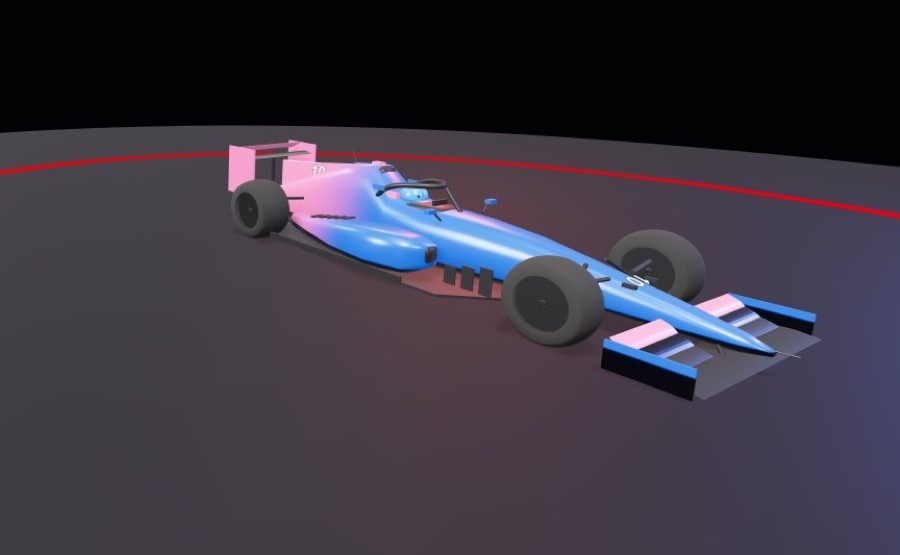
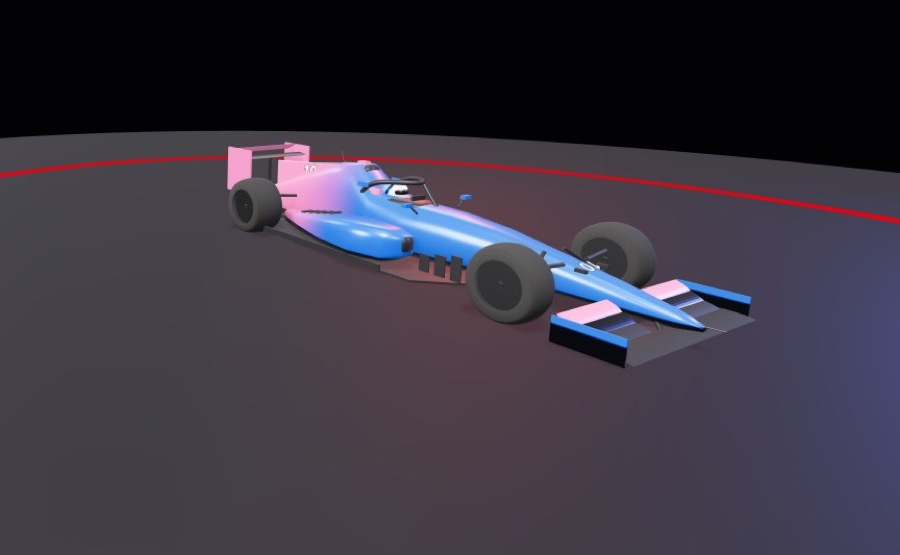
Helmet portraits on the driver cards; team shots with the new helmets
capture-shots gains a 'helmets' part: a portrait of each driver's helmet
on the grid, framed by the photo camera (assets/shots/helmets/). The
driver cards give the 2025 standing its own line over a wins/podiums/poles
row; team cards the same. Team showroom shots recaptured so the drivers
wear their painted helmets.

Changed region(s): [[0.0, 0.2144, 1.0, 0.7351]]

diff --git a/tools/capture-shots.js b/tools/capture-shots.js
@@ -3,7 +3,7 @@
 // filename: tools/capture-shots.js, dev server on http://localhost:8765.
 // Then resize with sips (see README). Writes to assets/shots/.
 // To retake only some parts, set globalThis.CAPTURE_PARTS first, for example
-// ["items"]; the default takes circuits, teams and items.
+// ["items"]; the default takes circuits, teams, items and helmets.
 async (page) => {
   // Keep the test tool's own empty tab (about:blank) out of the way.
   try {
@@ -11,7 +11,7 @@ async (page) => {
     const { windowId: ownWindow } = await own.send("Browser.getWindowForTarget");
     await own.send("Browser.setWindowBounds", { windowId: ownWindow, bounds: { windowState: "minimized" } });
   } catch (e) { /* not fatal */ }
-  const parts = globalThis.CAPTURE_PARTS || ["circuits", "teams", "items"];
+  const parts = globalThis.CAPTURE_PARTS || ["circuits", "teams", "items", "helmets"];
   // Relative to the Playwright server, which runs from the repo root.
   const OUT = "assets/shots/";
   const context = await page.context().browser().newContext({ viewport: null });
@@ -159,6 +159,41 @@ async (page) => {
       await p.waitForTimeout(600);
       await shot(`items/${s.id}`);
       written.push(`items/${s.id}`);
+    } finally {
+      await p.evaluate(() => {
+        Render3D.setPhotoCamera(null);
+        state.paused = false;
+        document.getElementById("game").style.visibility = "";
+        document.getElementById("screens").style.visibility = "";
+      });
+    }
+  }
+
+  // One helmet portrait per driver, for the site's driver cards: each car on
+  // the grid, paused, with a photo camera low at the front three-quarter (the
+  // visor, the design and the cockpit's edge). The halo stays: it's the car.
+  for (const id of parts.includes("helmets") ? await p.evaluate(() => DRIVERS.map((d) => d.id)) : []) {
+    await p.evaluate(async (id) => {
+      Game.backToPitLane();
+      Game.selectGridMode("back");
+      Game.selectDriver(DRIVERS.findIndex((d) => d.id === id));
+      Game.startCup();
+      for (let i = 0; i < 300 && state.preparing; i += 1) await new Promise((r) => requestAnimationFrame(r));
+      state.paused = true;
+      state.pausedAt = performance.now();
+      const pl = getPlayer();
+      const c = Math.cos(pl.heading ?? pl.angle);
+      const s = Math.sin(pl.heading ?? pl.angle);
+      const spot = ([fwd, side, h]) => ({ x: pl.x + c * fwd - s * side, y: pl.y + s * fwd + c * side, d: pl.trackDistance, h });
+      Render3D.setPhotoCamera({ from: spot([7.5, -5.5, 6.2]), at: spot([-0.6, 0, 4.6]), fov: 30 });
+    }, id);
+    try {
+      await hideOverlays();
+      await p.waitForTimeout(500);
+      const view = await p.evaluate(() => ({ w: innerWidth, h: innerHeight }));
+      const side = Math.round(Math.min(view.w, view.h) * 0.42);
+      await shot(`helmets/${id}`, { x: Math.round(view.w / 2 - side / 2), y: Math.round(view.h / 2 - side / 2), width: side, height: side });
+      written.push(`helmets/${id}`);
     } finally {
       await p.evaluate(() => {
         Render3D.setPhotoCamera(null);

diff --git a/landing.css b/landing.css
@@ -128,22 +128,23 @@ body.landing { overflow-x: hidden; }
 /* ---- The grid pages (drivers.html, teams.html) ---- */
 .grid-page main { padding-bottom: 24px; }
 .driver-cards, .team-cards { display: grid; grid-template-columns: repeat(auto-fill, minmax(min(100%, 300px), 1fr)); gap: 16px; }
-.driver-card { display: grid; grid-template-columns: 112px 1fr; background: var(--panel); border-top: 4px solid var(--team); overflow: hidden; }
-.driver-helmet { background: radial-gradient(circle at 50% 40%, color-mix(in srgb, var(--team) 45%, #0b0b10), #07070c 75%); display: grid; place-items: center; }
+.driver-card { display: grid; grid-template-columns: 124px 1fr; align-items: start; background: var(--panel); border-top: 4px solid var(--team); overflow: hidden; }
+.driver-helmet { aspect-ratio: 1; background: radial-gradient(circle at 50% 40%, color-mix(in srgb, var(--team) 45%, #0b0b10), #07070c 75%); }
 .driver-helmet img { width: 100%; height: 100%; object-fit: cover; display: block; }
 .driver-body { padding: 12px 14px 14px; min-width: 0; }
 .driver-body h3 { margin: 2px 0 0; font: italic 900 1.1rem/1.1 var(--font); text-transform: uppercase; }
 .driver-line { font-size: 0.82rem; margin: 3px 0 10px; }
-.record { display: grid; grid-template-columns: repeat(4, auto); gap: 6px 12px; margin: 0 0 8px; justify-content: start; }
+.standing { margin: 0 0 6px; font-weight: 700; }
+.standing span { font-size: 0.68rem; letter-spacing: 0.12em; color: var(--muted); margin-right: 4px; }
+.record { display: grid; grid-template-columns: repeat(3, minmax(0, 1fr)); gap: 6px 10px; margin: 0 0 8px; }
 .record div { min-width: 0; }
-.record dt { font-size: 0.68rem; letter-spacing: 0.12em; text-transform: uppercase; color: var(--muted); }
-.record dd { margin: 0; font-weight: 700; white-space: nowrap; }
+.record dt { font-size: 0.66rem; letter-spacing: 0.1em; text-transform: uppercase; color: var(--muted); }
+.record dd { margin: 0; font-weight: 700; }
 .career-line { font-size: 0.82rem; margin: 0; color: var(--muted); }
 .moved { font-size: 0.8rem; margin: 6px 0 0; }
 .champion { color: #ffd400; }
 .team-cards .team-body .kicker { margin: 0 0 2px; }
 .team-cards .team-body h3 { font-size: 1rem; }
 @media (max-width: 520px) {
-  .driver-card { grid-template-columns: 88px 1fr; }
-  .record { grid-template-columns: repeat(2, auto); }
+  .driver-card { grid-template-columns: 96px 1fr; }
 }

diff --git a/grid-pages.js b/grid-pages.js
@@ -53,8 +53,8 @@
             <p class="kicker">#${num(r.number)} · ${esc(team ? team.short : "")}${s.champion ? ` · <span class="champion">2025 World Champion</span>` : ""}</p>
             <h3>${esc(r.name)}</h3>
             <p class="muted driver-line">${esc(game ? game.title : "")} · ${esc(r.nationality)} · ${ageAt(r.dateOfBirth, data.season.firstRace)} at the season opener</p>
+            <p class="standing"><span>2025</span> ${esc(ordinal(s.position))} · ${num(s.points)} pts</p>
             <dl class="record">
-              <div><dt>2025</dt><dd>${esc(ordinal(s.position))} · ${num(s.points)} pts</dd></div>
               <div><dt>Wins</dt><dd>${num(s.wins)}</dd></div>
               <div><dt>Podiums</dt><dd>${num(s.podiums)}</dd></div>
               <div><dt>Poles</dt><dd>${num(s.poles)}</dd></div>
@@ -81,9 +81,8 @@
             <p class="kicker">${esc(r.country)}${r.season.champion ? ` · <span class="champion">2025 Constructors' Champions</span>` : ""}</p>
             <h3>${esc(r.fullName)}</h3>
             <p class="team-car">${esc(team.car)}</p>
+            <p class="standing"><span>2025</span> ${esc(ordinal(r.season.position))} · ${num(r.season.points)} pts · ${plural(r.season.wins, "win")}</p>
             <dl class="record">
-              <div><dt>2025</dt><dd>${esc(ordinal(r.season.position))} · ${num(r.season.points)} pts</dd></div>
-              <div><dt>Wins</dt><dd>${num(r.season.wins)}</dd></div>
               <div><dt>Titles</dt><dd>${num(r.career.titles)}</dd></div>
               <div><dt>All-time wins</dt><dd>${num(r.career.wins)}</dd></div>
             </dl>
